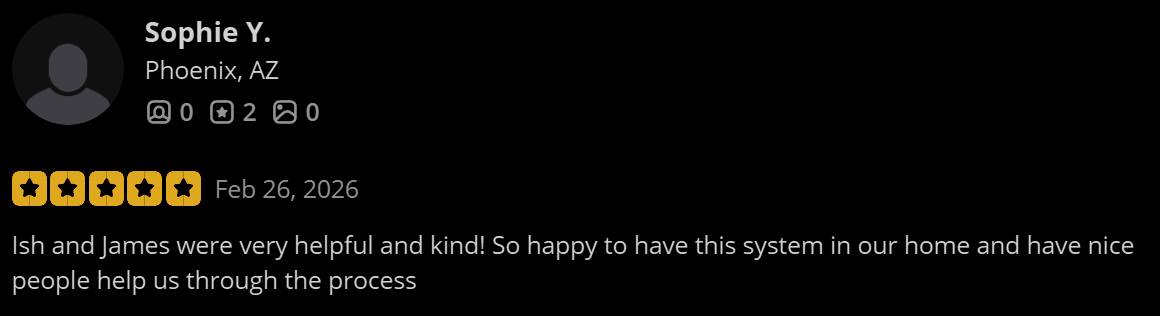
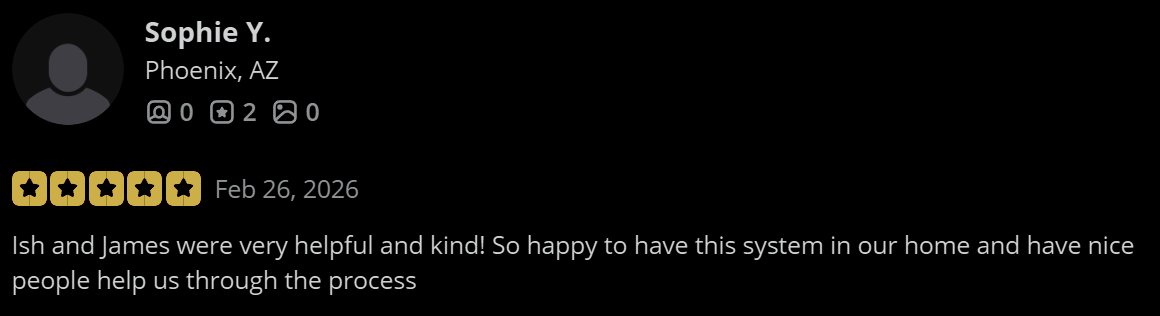
style: tune star gold to match gift-card pill (#e8c652)
Both testimonial screenshot stars (recolored via image processing)
and Hero CSS stars now use the same gold as the $25-gift-card pill
text, instead of amber-400.

Changed region(s): [[0.0, 0.5411, 0.1862, 0.6551]]

diff --git a/artifacts/pure-gentle-landing/src/components/landing/Hero.tsx b/artifacts/pure-gentle-landing/src/components/landing/Hero.tsx
@@ -59,7 +59,7 @@ export function Hero() {
             <div className="flex items-start gap-3 mb-6 max-w-xl">
               <div className="flex gap-0.5 shrink-0 mt-0.5">
                 {[1, 2, 3, 4, 5].map((s) => (
-                  <Star key={s} className="w-3.5 h-3.5 fill-amber-400 text-amber-400" />
+                  <Star key={s} className="w-3.5 h-3.5 fill-[#e8c652] text-[#e8c652]" />
                 ))}
               </div>
               <p className="text-sm text-slate-300 leading-snug">
